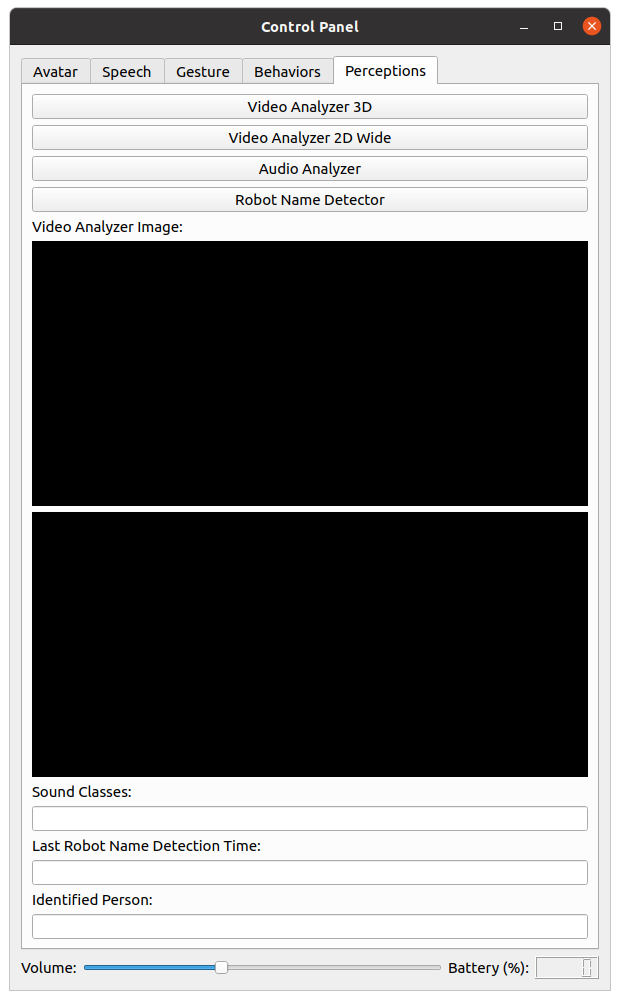
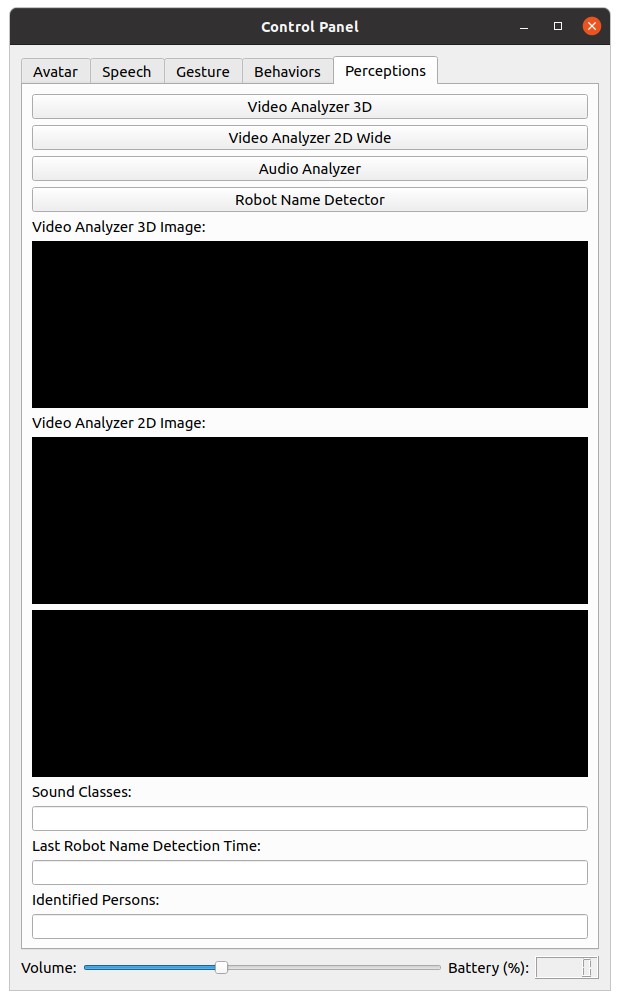
Add semantic segmention visualization to control_panel

diff --git a/ros/demos/control_panel/src/widgets/PerceptionsTab.cpp b/ros/demos/control_panel/src/widgets/PerceptionsTab.cpp
@@ -25,6 +25,63 @@ QString mergeStdStrings(const vector<string> values)
     return mergedValues;
 }
 
+vector<QColor> getSemanticSegmentationPaletteFromClassCount(size_t classCount)
+{
+    constexpr int MAX_PIXEL_VALUE = 255;
+    vector<QColor> palette(classCount);
+    int colorStep = static_cast<int>(ceil(MAX_PIXEL_VALUE / pow(classCount, 1.f / 3.f)));
+    int r = 0;
+    int g = 0;
+    int b = 0;
+    for (size_t i = 0; i < classCount; i++)
+    {
+        palette[i] = QColor(r, g, b);
+
+        r += colorStep;
+        if (r > MAX_PIXEL_VALUE)
+        {
+            r = 0;
+            g += colorStep;
+            if (g > MAX_PIXEL_VALUE)
+            {
+                g = 0;
+                b += colorStep;
+            }
+        }
+    }
+
+    return palette;
+}
+
+QImage semanticSegmentationToImage(const video_analyzer::SemanticSegmentation& semanticSegmentation)
+{
+    int width = semanticSegmentation.width;
+    int height = semanticSegmentation.height;
+    if (semanticSegmentation.class_indexes.size() != width * height)
+    {
+        ROS_ERROR("Invalid semantic segmentation (class_indexes.size() != width * height)");
+        return QImage();
+    }
+
+    QImage image(width, height, QImage::Format_RGB32);
+    image.fill(QColor(0, 0, 0));
+    vector<QColor> palette = getSemanticSegmentationPaletteFromClassCount(semanticSegmentation.class_names.size());
+
+    for (int x = 0; x < width; x++)
+    {
+        for (int y = 0; y < height; y++)
+        {
+            int classIndex = semanticSegmentation.class_indexes[y * width + x];
+            if (classIndex < palette.size())
+            {
+                image.setPixelColor(x, y, palette[classIndex]);
+            }
+        }
+    }
+
+    return image;
+}
+
 PerceptionsTab::PerceptionsTab(
     ros::NodeHandle& nodeHandle,
     shared_ptr<DesireSet> desireSet,
@@ -45,6 +102,11 @@ PerceptionsTab::PerceptionsTab(
             "camera_2d_wide/analysed_image",
             1,
             &PerceptionsTab::analyzedImage2dWideSubscriberCallback,
+            this);
+        m_videoAnalysis2dWideSubscriber = nodeHandle.subscribe(
+            "camera_2d_wide/video_analysis",
+            1,
+            &PerceptionsTab::videoAnalysis2dWideSubscriberCallback,
             this);
     }
 
@@ -105,6 +167,21 @@ void PerceptionsTab::analyzedImage2dWideSubscriberCallback(const sensor_msgs::Im
         });
 }
 
+void PerceptionsTab::videoAnalysis2dWideSubscriberCallback(const video_analyzer::VideoAnalysis::ConstPtr& msg)
+{
+    if (msg->semantic_segmentation.empty())
+    {
+        return;
+    }
+
+    invokeLater(
+        [this, msg]()
+        {
+            m_videoAnalyzer2dWideSegmentationcImageDisplay->setImage(
+                semanticSegmentationToImage(msg->semantic_segmentation[0]));
+        });
+}
+
 void PerceptionsTab::audioAnalysisSubscriberCallback(const audio_analyzer::AudioAnalysis::ConstPtr& msg)
 {
     QString classes = mergeStdStrings(msg->audio_classes);
@@ -159,11 +236,13 @@ void PerceptionsTab::createUi()
             &PerceptionsTab::onVideoAnalyzer2dWideButtonToggled);
 
         m_videoAnalyzer2dWideImageDisplay = new ImageDisplay;
+        m_videoAnalyzer2dWideSegmentationcImageDisplay = new ImageDisplay;
     }
     else
     {
         m_videoAnalyzer2dWideButton = nullptr;
         m_videoAnalyzer2dWideImageDisplay = nullptr;
+        m_videoAnalyzer2dWideSegmentationcImageDisplay = nullptr;
     }
 
     m_soundClassesLineEdit = new QLineEdit;
@@ -183,17 +262,19 @@ void PerceptionsTab::createUi()
     }
     globalLayout->addWidget(m_audioAnalyzerButton);
     globalLayout->addWidget(m_robotNameDetectorButton);
-    globalLayout->addWidget(new QLabel("Video Analyzer Image:"));
+    globalLayout->addWidget(new QLabel("Video Analyzer 3D Image:"));
     globalLayout->addWidget(m_videoAnalyzer3dImageDisplay, 1);
     if (m_videoAnalyzer2dWideImageDisplay != nullptr)
     {
+        globalLayout->addWidget(new QLabel("Video Analyzer 2D Image:"));
         globalLayout->addWidget(m_videoAnalyzer2dWideImageDisplay, 1);
+        globalLayout->addWidget(m_videoAnalyzer2dWideSegmentationcImageDisplay, 1);
     }
     globalLayout->addWidget(new QLabel("Sound Classes:"));
     globalLayout->addWidget(m_soundClassesLineEdit);
     globalLayout->addWidget(new QLabel("Last Robot Name Detection Time:"));
     globalLayout->addWidget(m_robotNameDetectionTimeLineEdit);
-    globalLayout->addWidget(new QLabel("Identified Person:"));
+    globalLayout->addWidget(new QLabel("Identified Persons:"));
     globalLayout->addWidget(m_identifiedPersonsLineEdit);
 
     setLayout(globalLayout);

diff --git a/ros/demos/control_panel/src/widgets/PerceptionsTab.h b/ros/demos/control_panel/src/widgets/PerceptionsTab.h
@@ -10,6 +10,7 @@
 
 #include <ros/ros.h>
 #include <sensor_msgs/Image.h>
+#include <video_analyzer/VideoAnalysis.h>
 #include <audio_analyzer/AudioAnalysis.h>
 #include <std_msgs/Empty.h>
 #include <person_identification/PersonNames.h>
@@ -26,6 +27,7 @@ class PerceptionsTab : public QWidget
     ros::NodeHandle& m_nodeHandle;
     ros::Subscriber m_analyzedImage3dSubscriber;
     ros::Subscriber m_analyzedImage2dWideSubscriber;
+    ros::Subscriber m_videoAnalysis2dWideSubscriber;
     ros::Subscriber m_audioAnalysisSubscriber;
     ros::Subscriber m_robotNameDetectedSubscriber;
     ros::Subscriber m_personNamesSubscriber;
@@ -54,6 +56,7 @@ private slots:
 private:
     void analyzedImage3dSubscriberCallback(const sensor_msgs::Image::ConstPtr& msg);
     void analyzedImage2dWideSubscriberCallback(const sensor_msgs::Image::ConstPtr& msg);
+    void videoAnalysis2dWideSubscriberCallback(const video_analyzer::VideoAnalysis::ConstPtr& msg);
     void audioAnalysisSubscriberCallback(const audio_analyzer::AudioAnalysis::ConstPtr& msg);
     void robotNameDetectedSubscriberCallback(const std_msgs::Empty::ConstPtr& msg);
     void personNamesSubscriberCallback(const person_identification::PersonNames::ConstPtr& msg);
@@ -71,6 +74,7 @@ private:
 
     ImageDisplay* m_videoAnalyzer3dImageDisplay;
     ImageDisplay* m_videoAnalyzer2dWideImageDisplay;
+    ImageDisplay* m_videoAnalyzer2dWideSegmentationcImageDisplay;
     QLineEdit* m_soundClassesLineEdit;
     QLineEdit* m_robotNameDetectionTimeLineEdit;
     QLineEdit* m_identifiedPersonsLineEdit;
